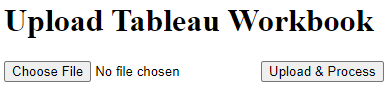
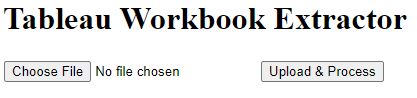
Change the Flask app header

diff --git a/app/web/templates/index.html b/app/web/templates/index.html
@@ -38,7 +38,7 @@
     </style>
 </head>
 <body>
-    <h1>Upload Tableau Workbook</h1>
+    <h1>Tableau Workbook Extractor</h1>
     <form id="upload-form" action="/" method="post" enctype="multipart/form-data">
         <input type="file" name="file" required>
         <input type="submit" value="Upload & Process">
